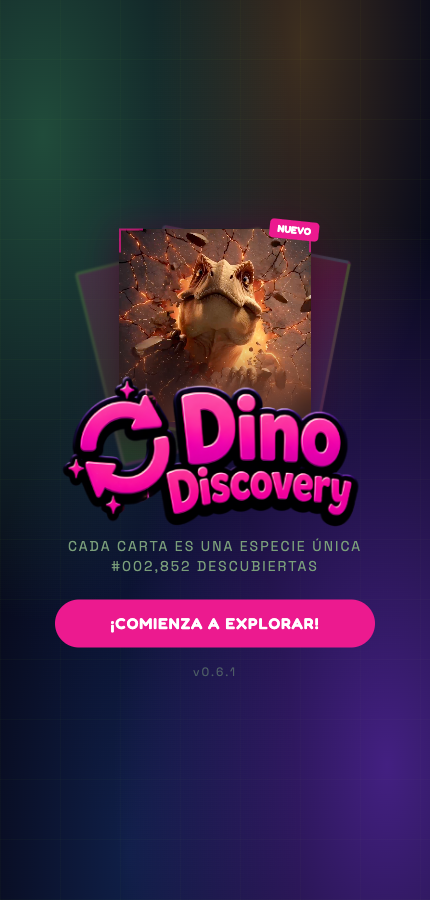
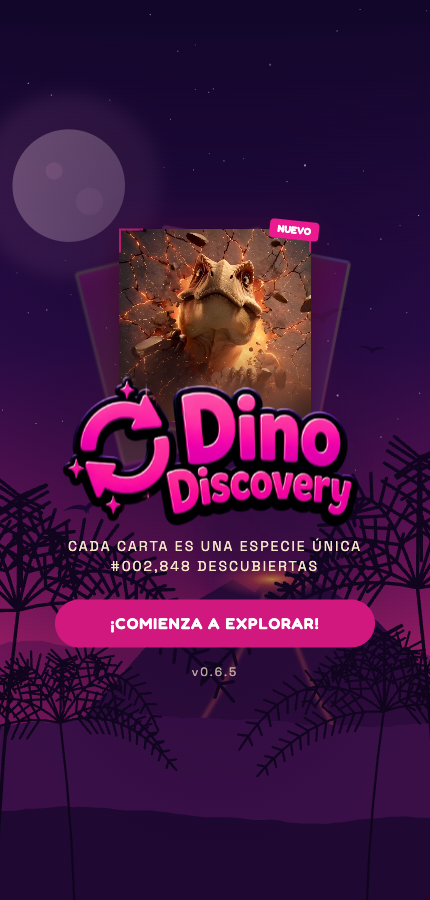
docs: refresh README screenshots with the dusk background and new button dock

diff --git a/README.es.md b/README.es.md
@@ -8,7 +8,7 @@
 [![Último commit](https://img.shields.io/github/last-commit/melinDross/DinoDiscovery)](https://github.com/melinDross/DinoDiscovery/commits/main)
 [![Licencia](https://img.shields.io/badge/licencia-PolyForm%20Noncommercial-blue)](LICENSE)
 
-![Carta de resultado — un descubrimiento real generado por IA](docs/screenshots/result-card.jpeg)
+![Carta de resultado — un descubrimiento real generado por IA](docs/screenshots/result-card.png)
 
 Dino Discovery es una app web infantil donde un niño o niña crea su propio dinosaurio eligiendo cinco atributos (tamaño, hábitat, dieta, característica especial, personalidad) a través de un wizard corto, y recibe a cambio una criatura generada por IA —imagen, nombre científico, nombre común y una descripción de tres frases— reformulada como una **carta coleccionable de "descubrimiento de especie"**: un ID de especie determinista, un nivel de rareza calculado, arte de hábitat ilustrado detrás del dino, y una carta con giro/inclinación 3D que se puede arrastrar con el dedo o el ratón.
 
@@ -108,9 +108,9 @@ Escalado ajustado al contenedor para la carta (un wrapper `transform: scale()` d
 
 | Landing | Wizard | Carga | Carta de resultado |
 |---|---|---|---|
-| ![Pantalla de inicio](docs/screenshots/landing.png) | ![Paso de atributo del wizard](docs/screenshots/wizard.png) | ![Pantalla de carga](docs/screenshots/loading.png) | ![Carta de resultado](docs/screenshots/result-card.jpeg) |
+| ![Pantalla de inicio](docs/screenshots/landing.png) | ![Paso de atributo del wizard](docs/screenshots/wizard.png) | ![Pantalla de carga](docs/screenshots/loading.png) | ![Carta de resultado](docs/screenshots/result-card.png) |
 
-La carta de resultado de arriba ("Dragón de Fuego") es una generación real, no un mockup — Coloso / Volcán / Carnívoro / Alas / Feroz, rareza épica.
+La carta de resultado de arriba ("Tragahuevosaurio") es una generación real, no un mockup — Coloso / Océano / Oófago / Cola poderosa / Veloz, rareza rara.
 
 ---
 

diff --git a/README.md b/README.md
@@ -8,7 +8,7 @@
 [![Last commit](https://img.shields.io/github/last-commit/melinDross/DinoDiscovery)](https://github.com/melinDross/DinoDiscovery/commits/main)
 [![License](https://img.shields.io/badge/license-PolyForm%20Noncommercial-blue)](LICENSE)
 
-![Result card — a real AI-generated discovery](docs/screenshots/result-card.jpeg)
+![Result card — a real AI-generated discovery](docs/screenshots/result-card.png)
 
 Dino Discovery is a kids' web app where a child builds their own dinosaur by picking five attributes (size, habitat, diet, special feature, personality) through a short wizard, and receives back an AI-generated creature — image, scientific name, common name, and a three-sentence description — reframed as a collectible **"species discovery" card**: a deterministic species ID, a computed rarity tier, illustrated habitat art behind the dino, and a 3D flip/tilt card you can drag with a finger or mouse.
 
@@ -108,9 +108,9 @@ Fit-to-container scaling for the card (a `ResizeObserver`-driven `transform: sca
 
 | Landing | Wizard | Loading | Result card |
 |---|---|---|---|
-| ![Landing screen](docs/screenshots/landing.png) | ![Wizard attribute step](docs/screenshots/wizard.png) | ![Loading screen](docs/screenshots/loading.png) | ![Result card](docs/screenshots/result-card.jpeg) |
+| ![Landing screen](docs/screenshots/landing.png) | ![Wizard attribute step](docs/screenshots/wizard.png) | ![Loading screen](docs/screenshots/loading.png) | ![Result card](docs/screenshots/result-card.png) |
 
-The result card above ("Dragón de Fuego") is a real generation, not a mockup — Coloso / Volcán / Carnívoro / Alas / Feroz, épico rarity.
+The result card above ("Tragahuevosaurio") is a real generation, not a mockup — Coloso / Océano / Oófago / Cola poderosa / Veloz, rare tier.
 
 ---
 
